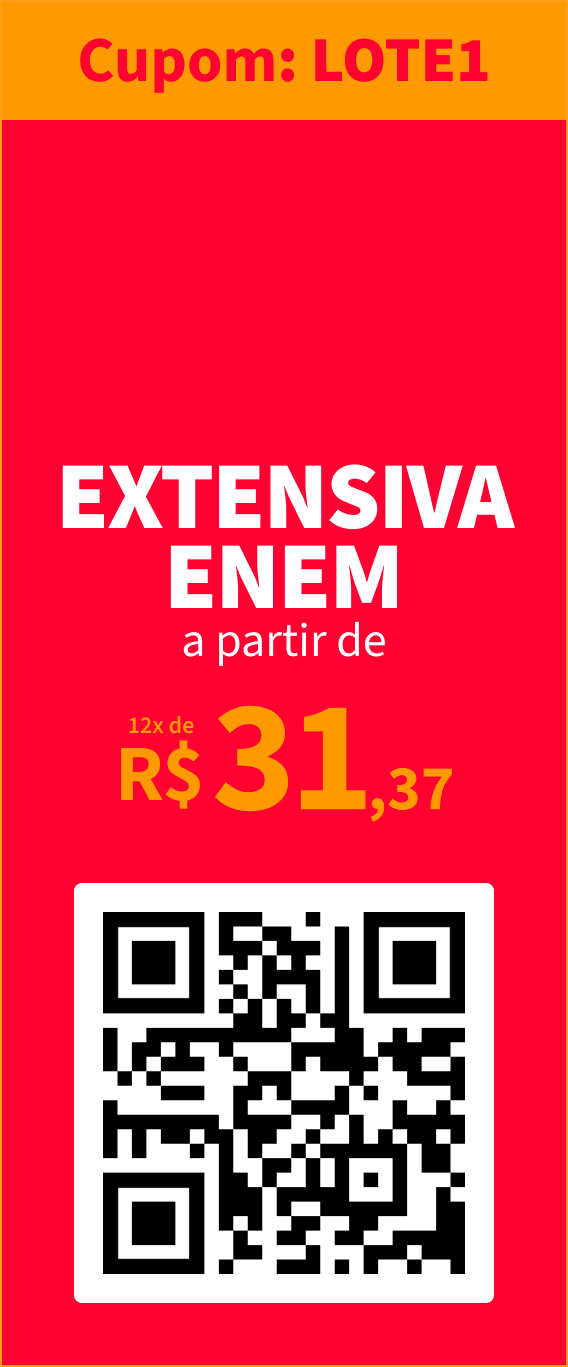
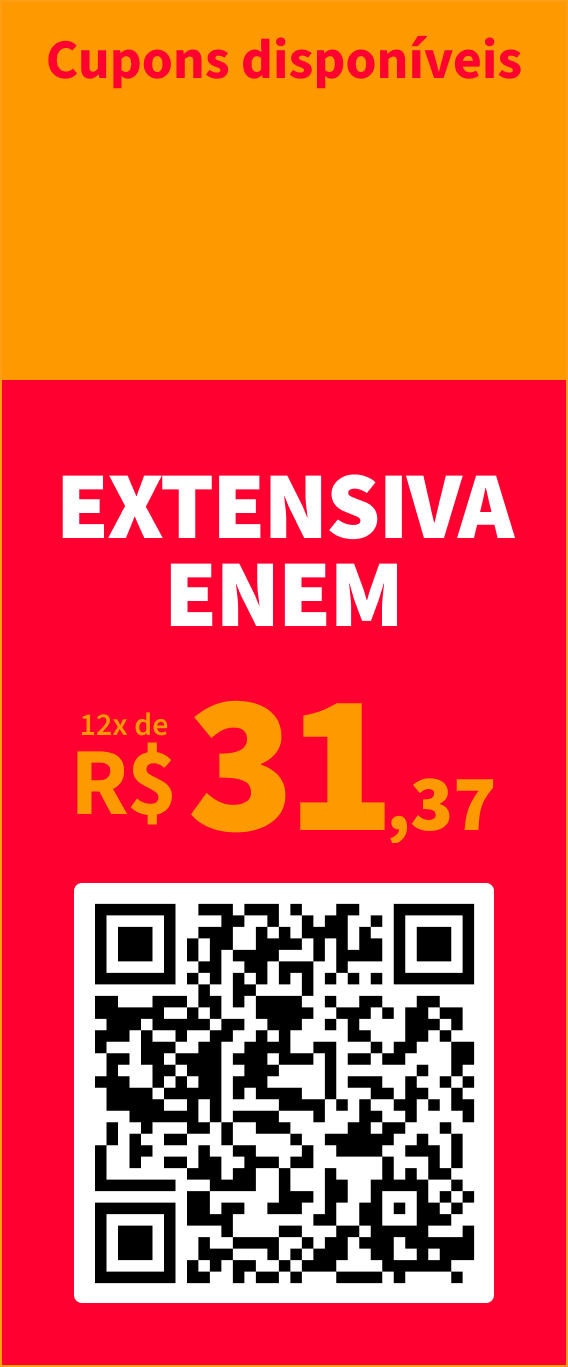
pe count

diff --git a/style.css b/style.css
@@ -22,8 +22,8 @@ body {
     display: flex;
     flex-direction: column;
     align-items: center;
-    bottom: 338px; 
-    right: 36px;
+    bottom: 370px; 
+    right: 44px;
     width: max-content; 
     height: min-content; 
    
@@ -51,13 +51,13 @@ body {
     right: 8px;
   }
   #valorContador {
-    background-color: #FF9F18; 
-    color: #fff; 
+    background-color: #ff0030; 
+    color: #FF9F18; 
     padding: 8px; 
     border-radius: 99px; 
     padding:8px 32px;
-    border: 2px solid #ff0030;
-    outline: 2px solid #FF9F18;
+    border: 2px solid #FF9F18;
+    outline: 2px solid #ff0030;
     font-size: 40px;
     line-height: 100%;
     display: inline-block; 

diff --git a/index.html b/index.html
@@ -14,7 +14,7 @@
 <body>
   <img src="./RED_STRIP.png" alt="" class="strip">
   <div id="contador">
-    <h2 id="chamadaTitulo">Cupons disponíveis</h2>
+    <h2 id="chamadaTitulo"></h2>
     <div id="valorContador">   
         ...
       </div>
